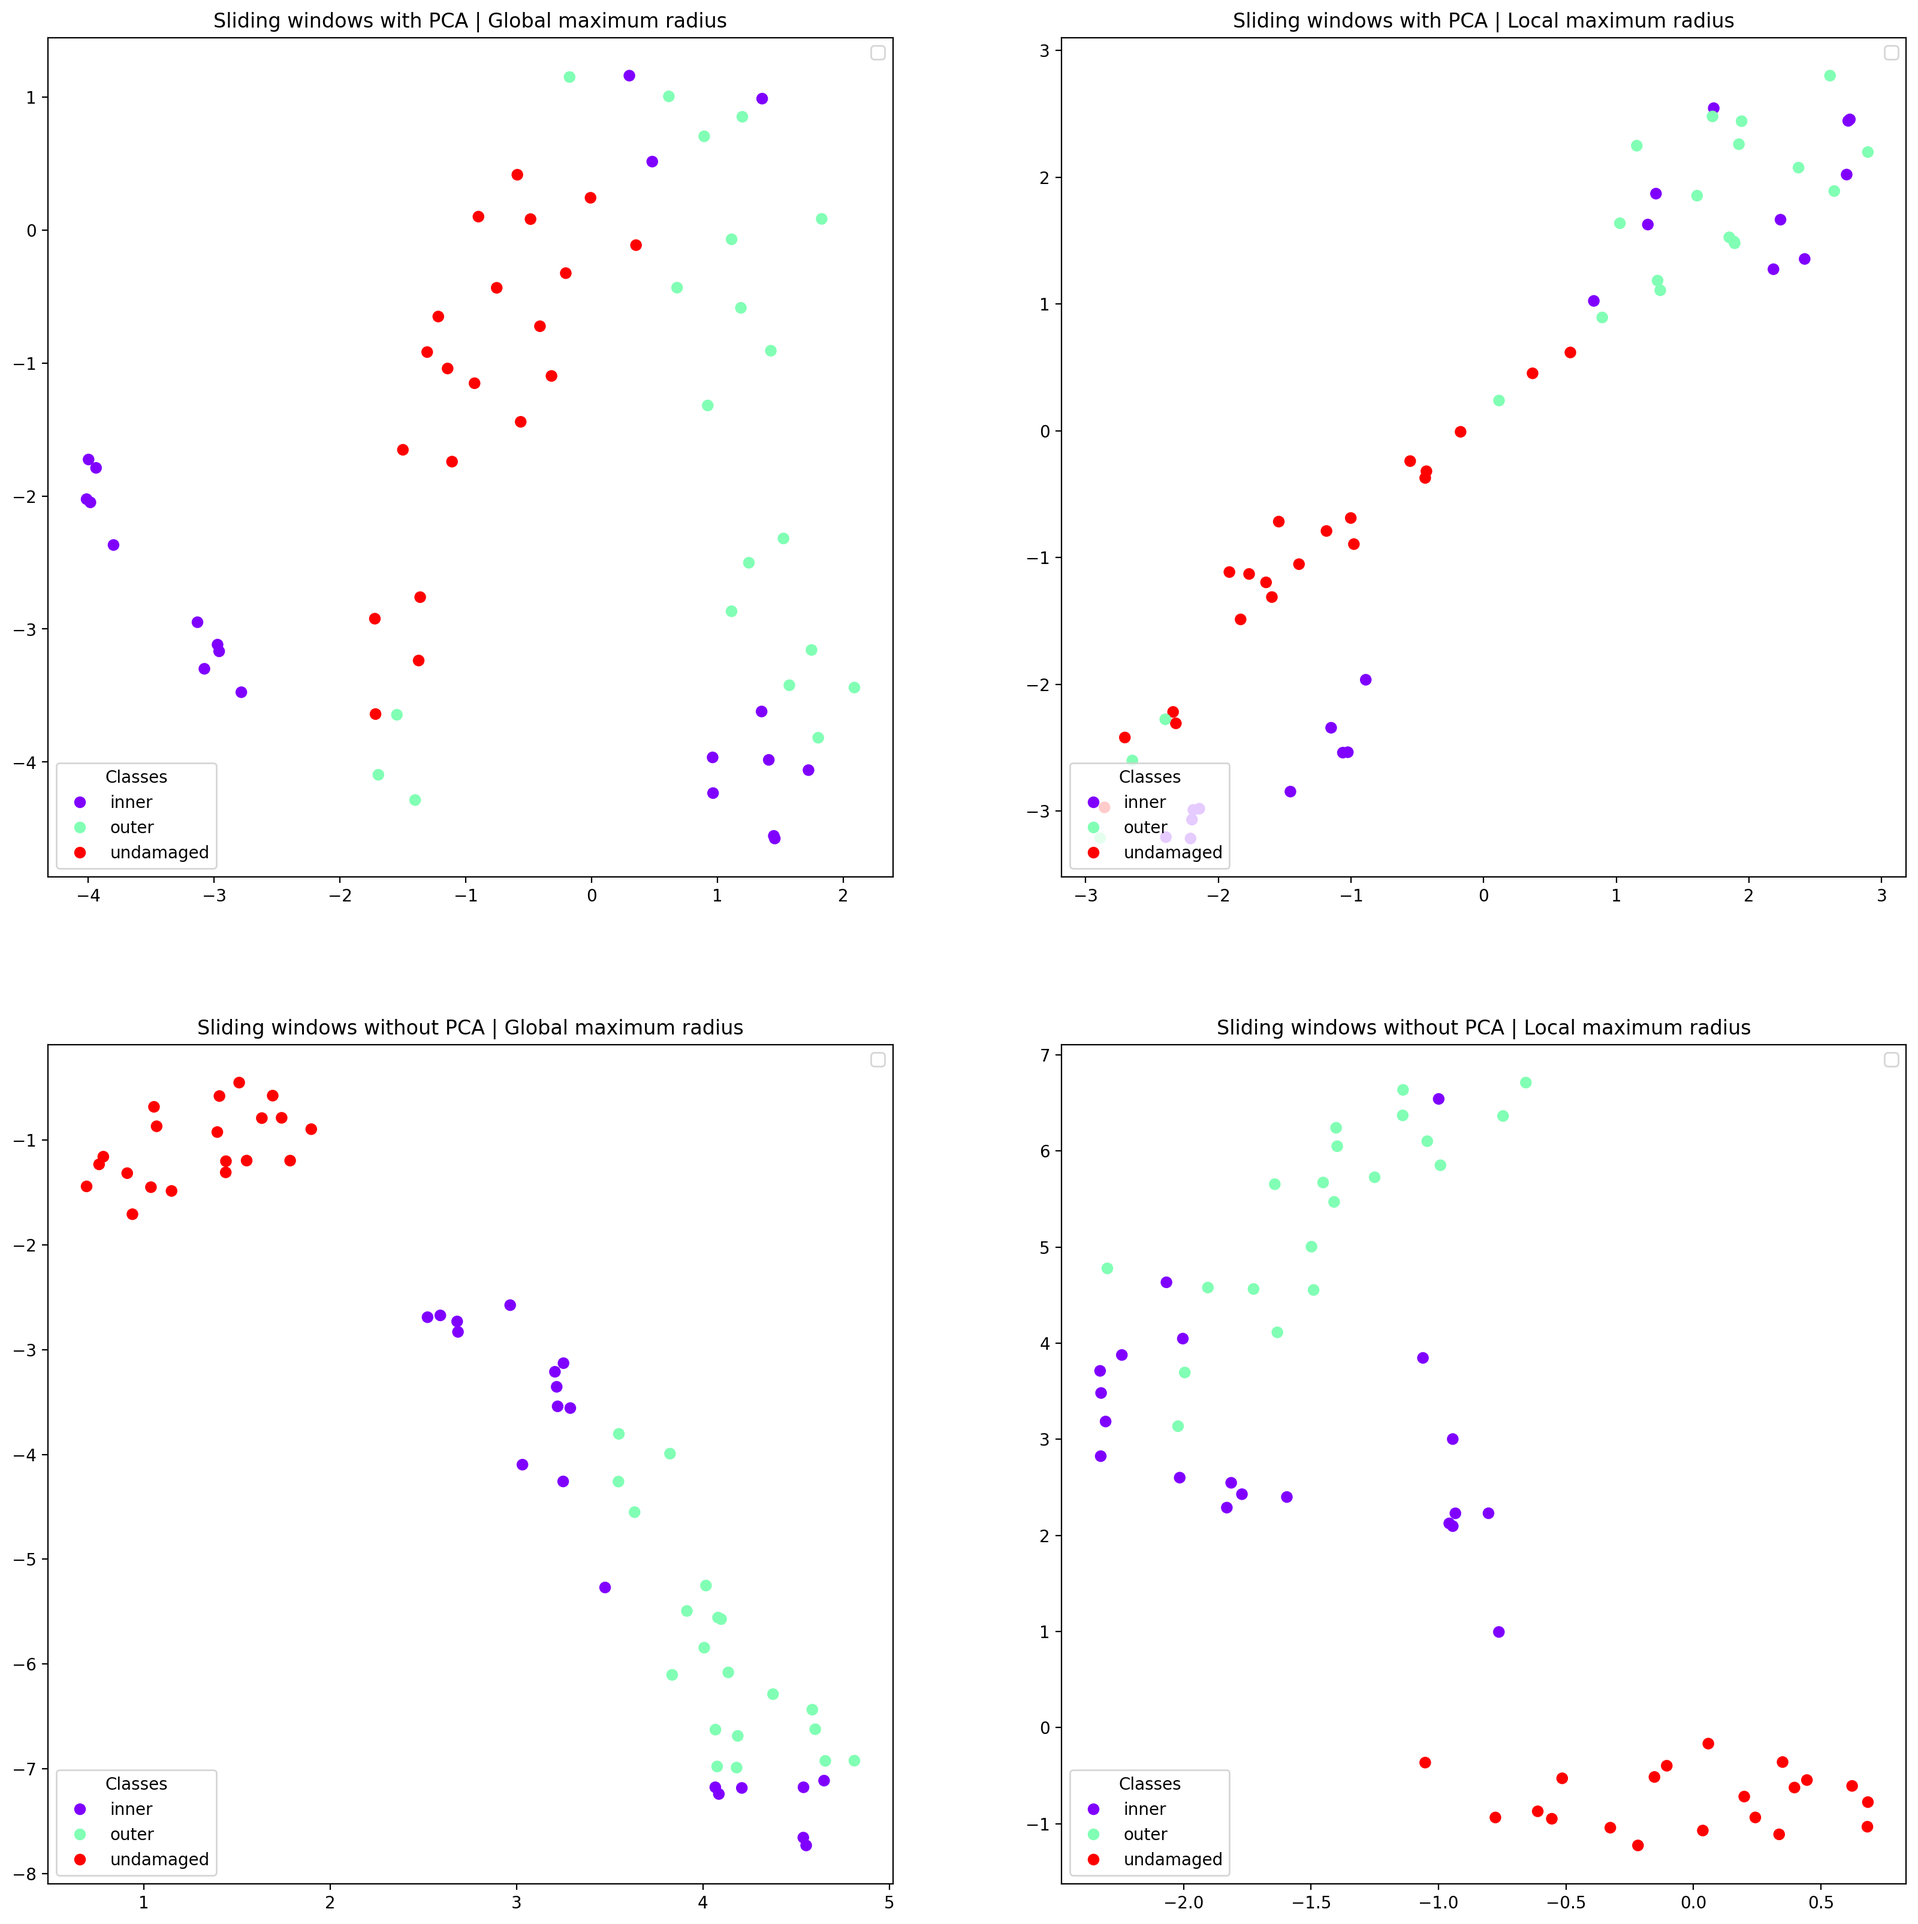
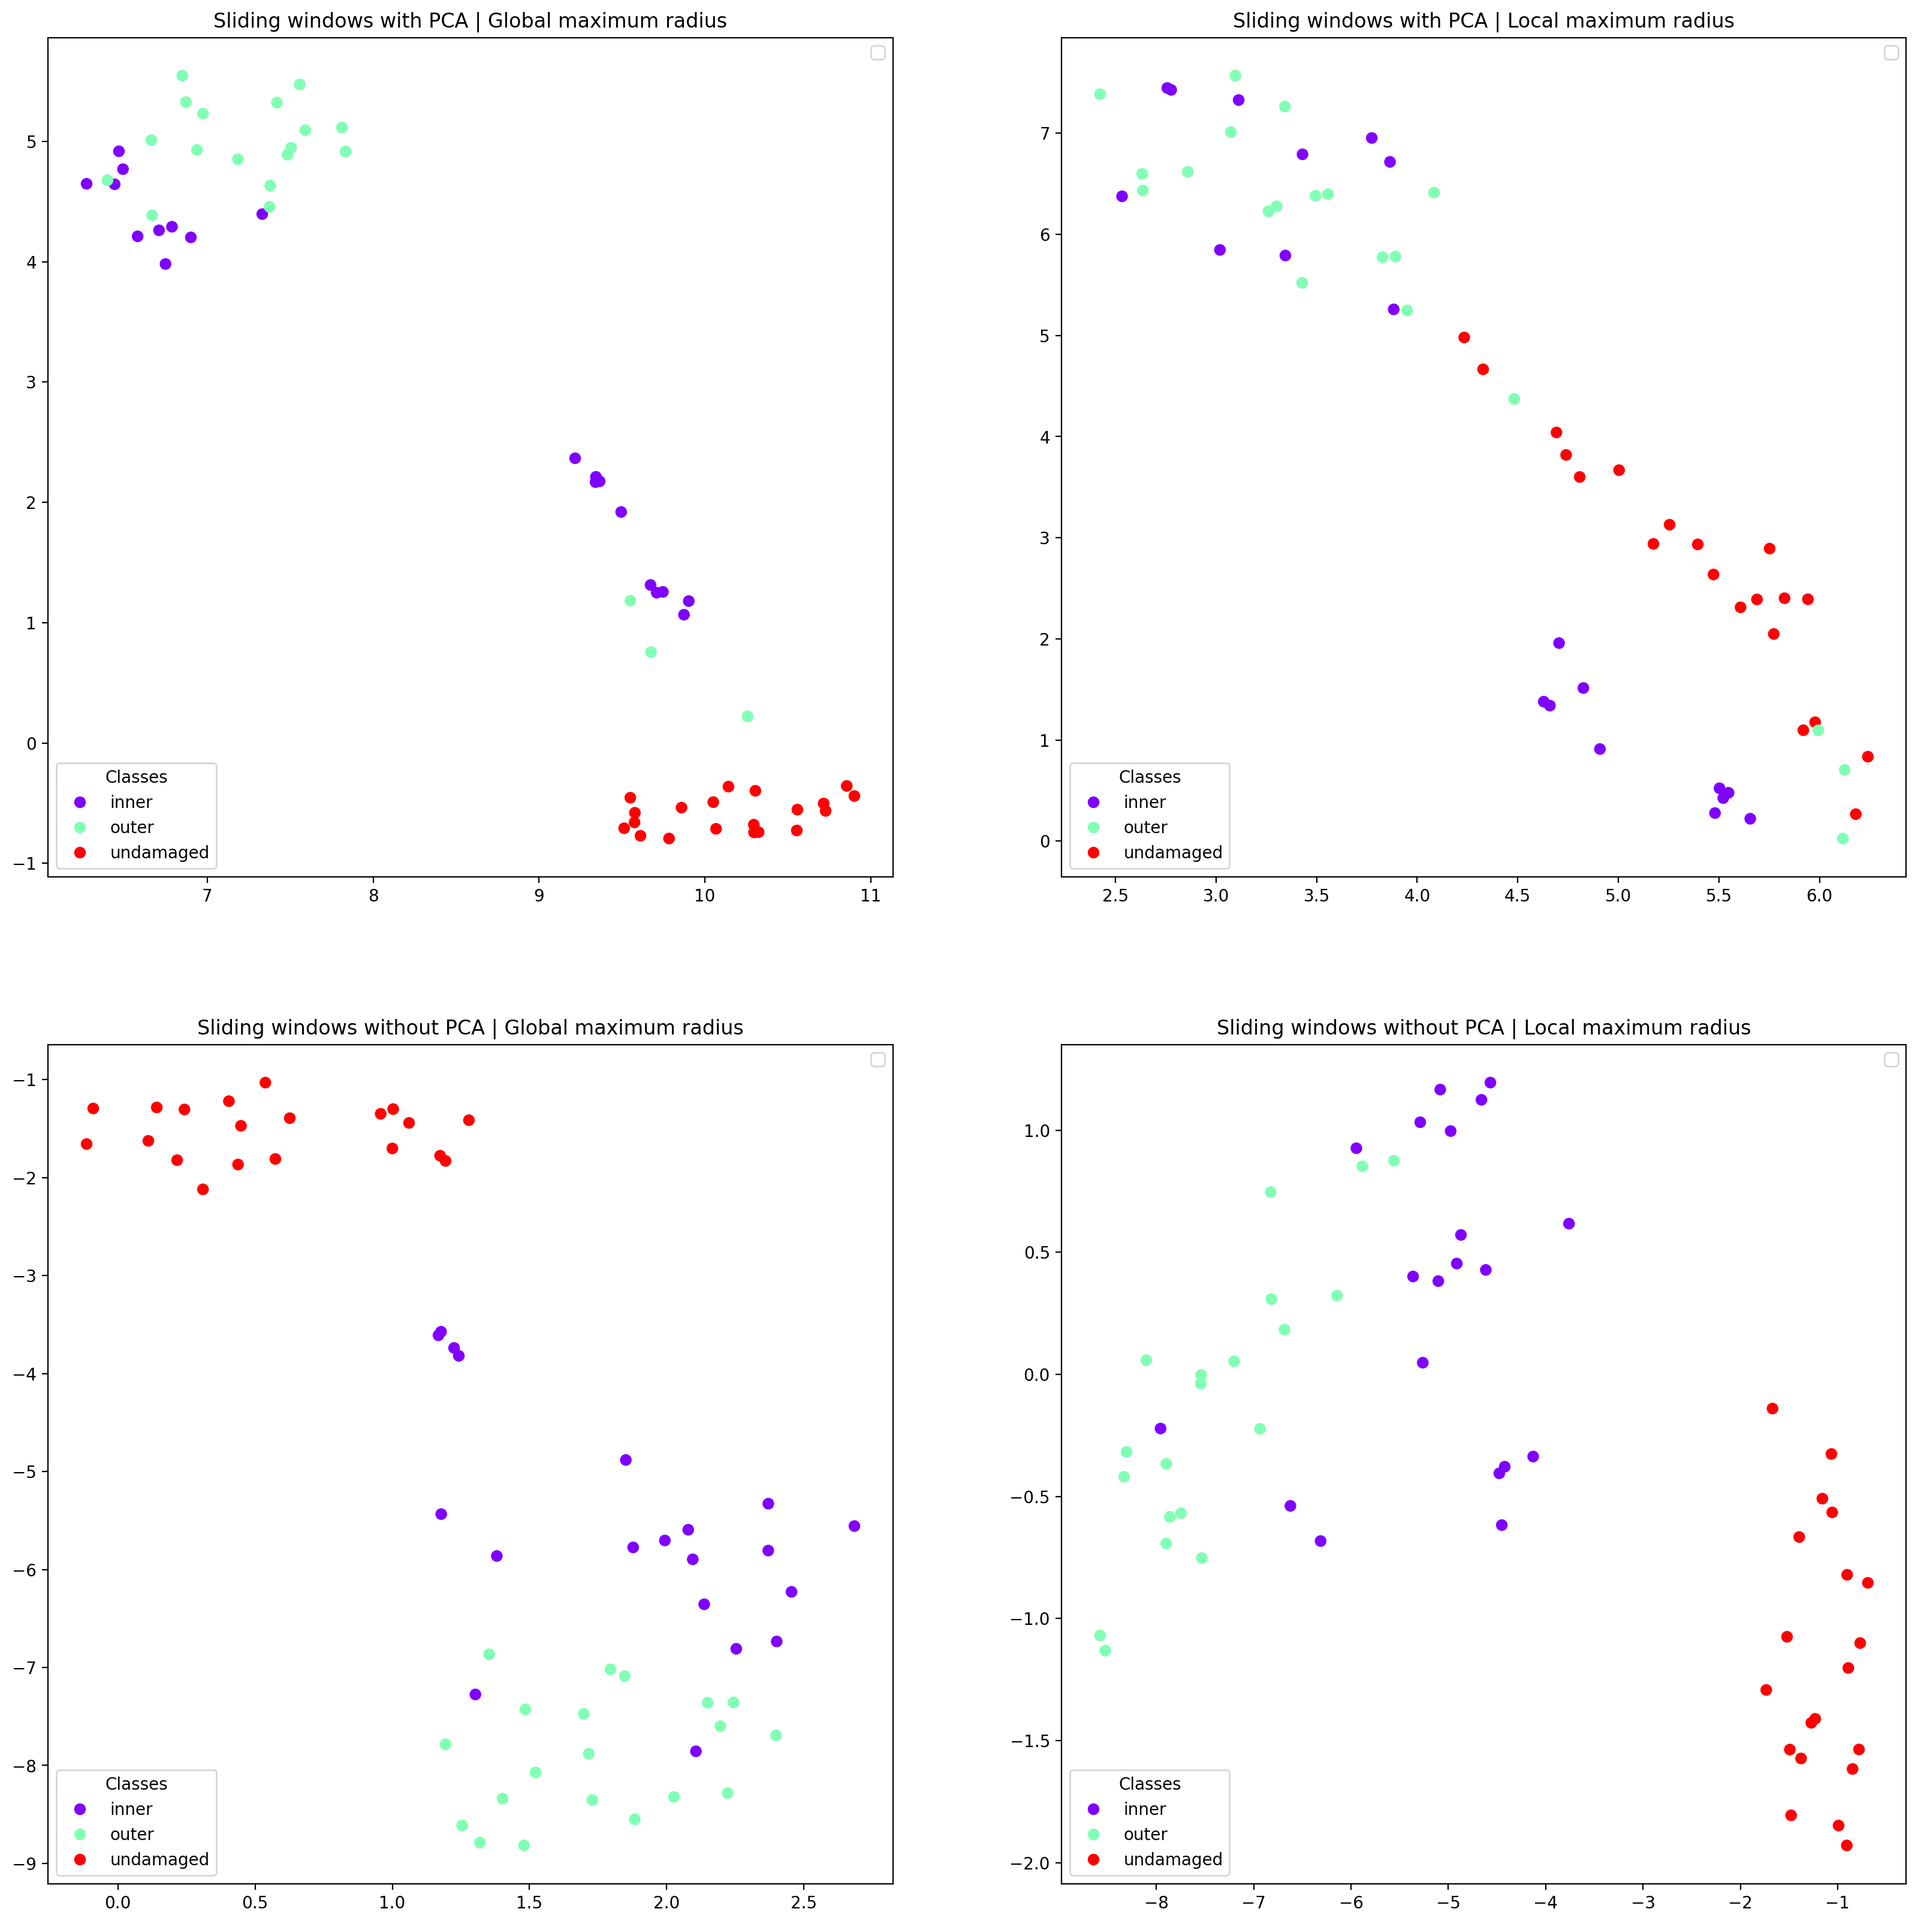
Test with opentsne to easily add new data points to existing embedding

diff --git a/self-contained-experiments/011-moving-towards-native-guide/radiusFeatureDescriptor.py b/self-contained-experiments/011-moving-towards-native-guide/radiusFeatureDescriptor.py
@@ -6,6 +6,8 @@ import emd
 import matplotlib.pyplot as plt
 import numpy as np
 from numpy.lib._stride_tricks_impl import sliding_window_view
+from openTSNE import affinity
+from openTSNE import TSNE as TSNE2
 from scipy.spatial.distance import jensenshannon
 from sklearn.decomposition import PCA
 from sklearn.manifold import TSNE
@@ -107,5 +109,49 @@ def main():
     plot_reduction(ax[3], chunks, [source, new_chunk, new_chunk_2, new_chunk_3], False, True, "Step 3")
     plt.savefig(f"projectionExperiment.png", bbox_inches='tight', dpi=200)
 
+def opentsne_trial():
+    chunks = load_chunks(100)
+    plt.clf()
+    fig, ax = plt.subplots(2, 1)
+    fig.set_size_inches(10, 20)
+
+    histograms = []
+    max_radius = get_global_max_radius(chunks, False)
+    labels = []
+    for idx, chunk in enumerate(chunks):
+        histogram = chunk.get_histogram(False, max_radius)
+        histograms.append(histogram)
+        if idx < len(chunks):
+            labels.append(chunk.label)
+    similarity_matrix = np.zeros((len(histograms), len(histograms)))
+
+    for i, p in enumerate(histograms):
+        for j, q in enumerate(histograms):
+            similarity_matrix[i, j] = jensenshannon(p, q)
+
+    tsne = TSNE2(
+        n_components=2,
+        initialization="random",
+        random_state=1,
+        metric=lambda p, q: jensenshannon(p, q),
+        n_iter=1000
+    )
+
+    projected = tsne.fit(X=np.array(histograms))
+    ax[0].scatter(projected[:, 0], projected[:, 1], c=[label_map.index(l) for l in labels],
+                         cmap='rainbow')
+
+    source = chunks[40]
+    target = chunks[0]
+
+    res = source.swap_imf(target.emd[1], 1)
+    new_chunk = Chunk(res, "cf", 100)
+
+    new_embedding = projected.transform(np.array(new_chunk.get_histogram(projected=False, max_radius=max_radius)).reshape(1, -1))
+    ax[1].scatter(projected[:, 0], projected[:, 1], c="red")
+    ax[1].scatter(new_embedding[:, 0], new_embedding[:, 1], c="blue")
+
+    plt.savefig(f"opentsne.png", bbox_inches='tight', dpi=200)
+
 if __name__ == '__main__':
-    main()
+    opentsne_trial()

diff --git a/self-contained-experiments/010-radius-feature-descriptor-projection/radiusFeatureDescriptor.py b/self-contained-experiments/010-radius-feature-descriptor-projection/radiusFeatureDescriptor.py
@@ -7,6 +7,7 @@ from numpy.lib._stride_tricks_impl import sliding_window_view
 from scipy.spatial.distance import jensenshannon
 from sklearn.decomposition import PCA
 from sklearn.manifold import TSNE
+from sklearn.preprocessing import StandardScaler
 
 label_map = ["inner", "outer", "undamaged"]
 
@@ -15,7 +16,8 @@ class Chunk:
         self.data = data
         self.label = label
         self.w = w
-        self.windows = sliding_window_view(data, window_shape=w)
+        win = sliding_window_view(data, window_shape=w)
+        self.windows = StandardScaler().fit_transform(win)
         self.projected = PCA(n_components=2).fit_transform(self.windows)
 
     def get_radii(self, projected=False):
